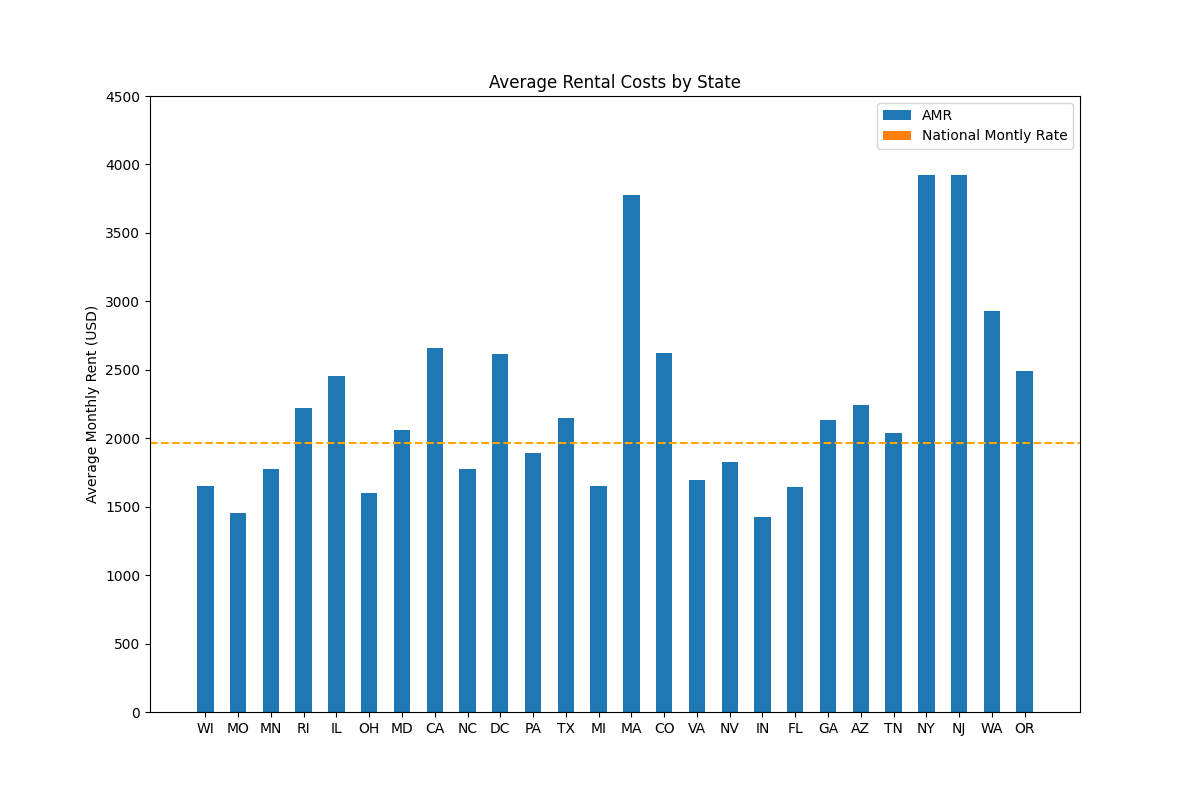
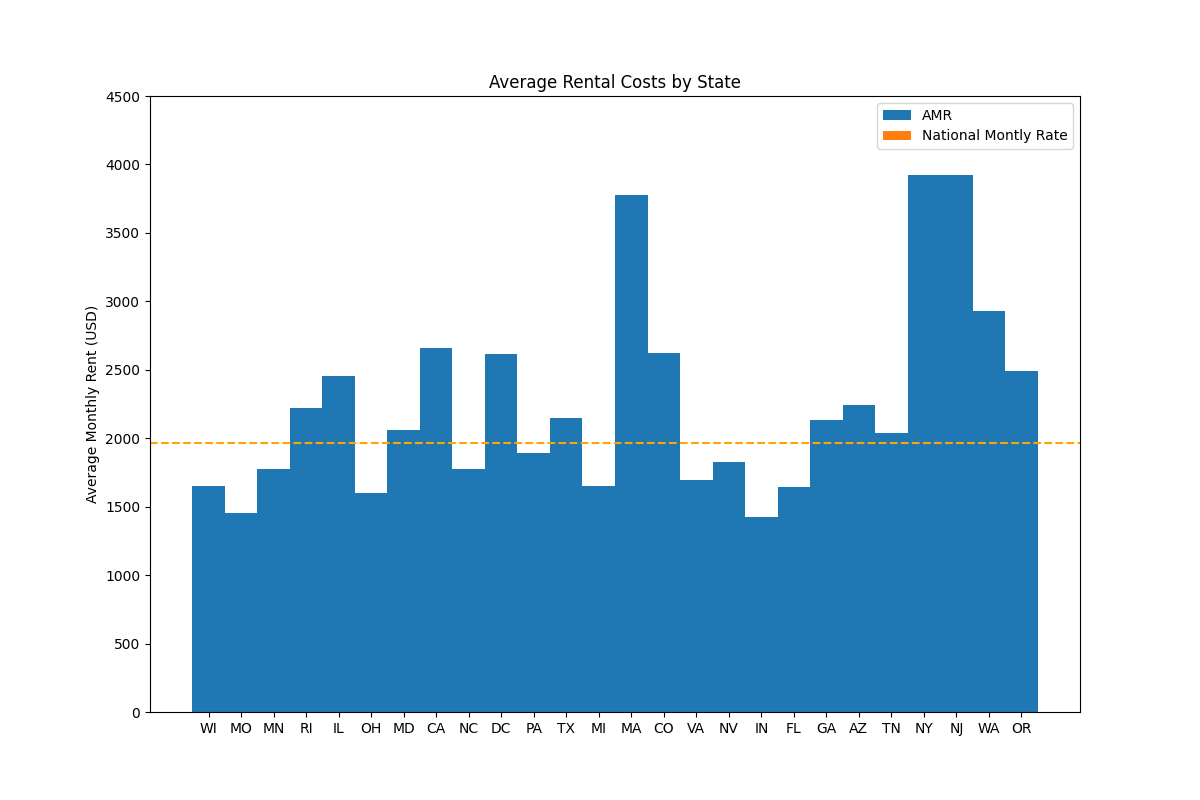
Final Project Updates

Changed region(s): [[0.1542, 0.2188, 0.8633, 0.9375]]

diff --git a/FinalProject.py b/FinalProject.py
@@ -74,7 +74,7 @@ def main():
     
     
     ind = np.arange(R)                                                                                        #Order of Bars 
-    width = 0.5                                                                                               #Width of Bar 
+    width = 1                                                                                               #Width of Bar 
     
     fig = plt.subplots(figsize = (12,8))
     
